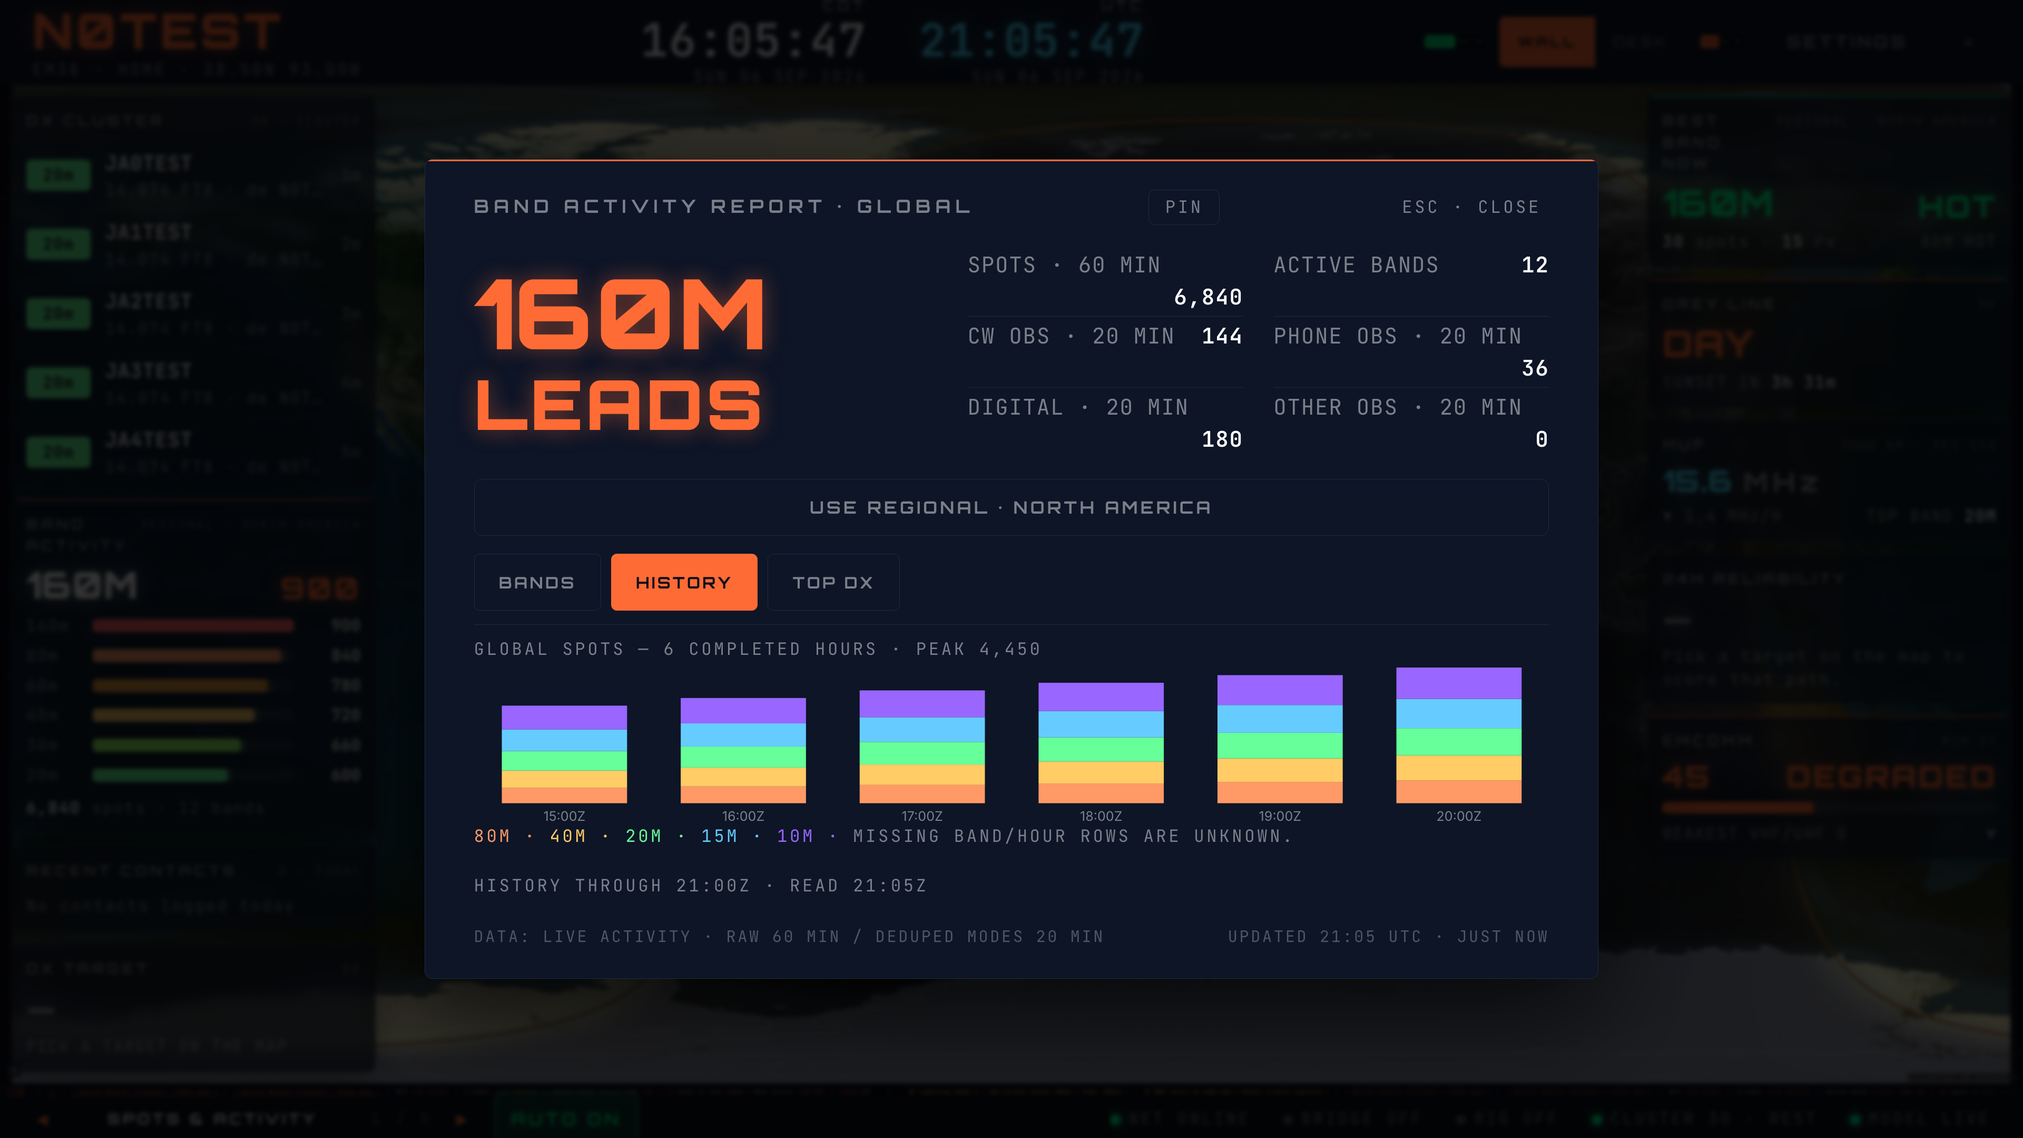
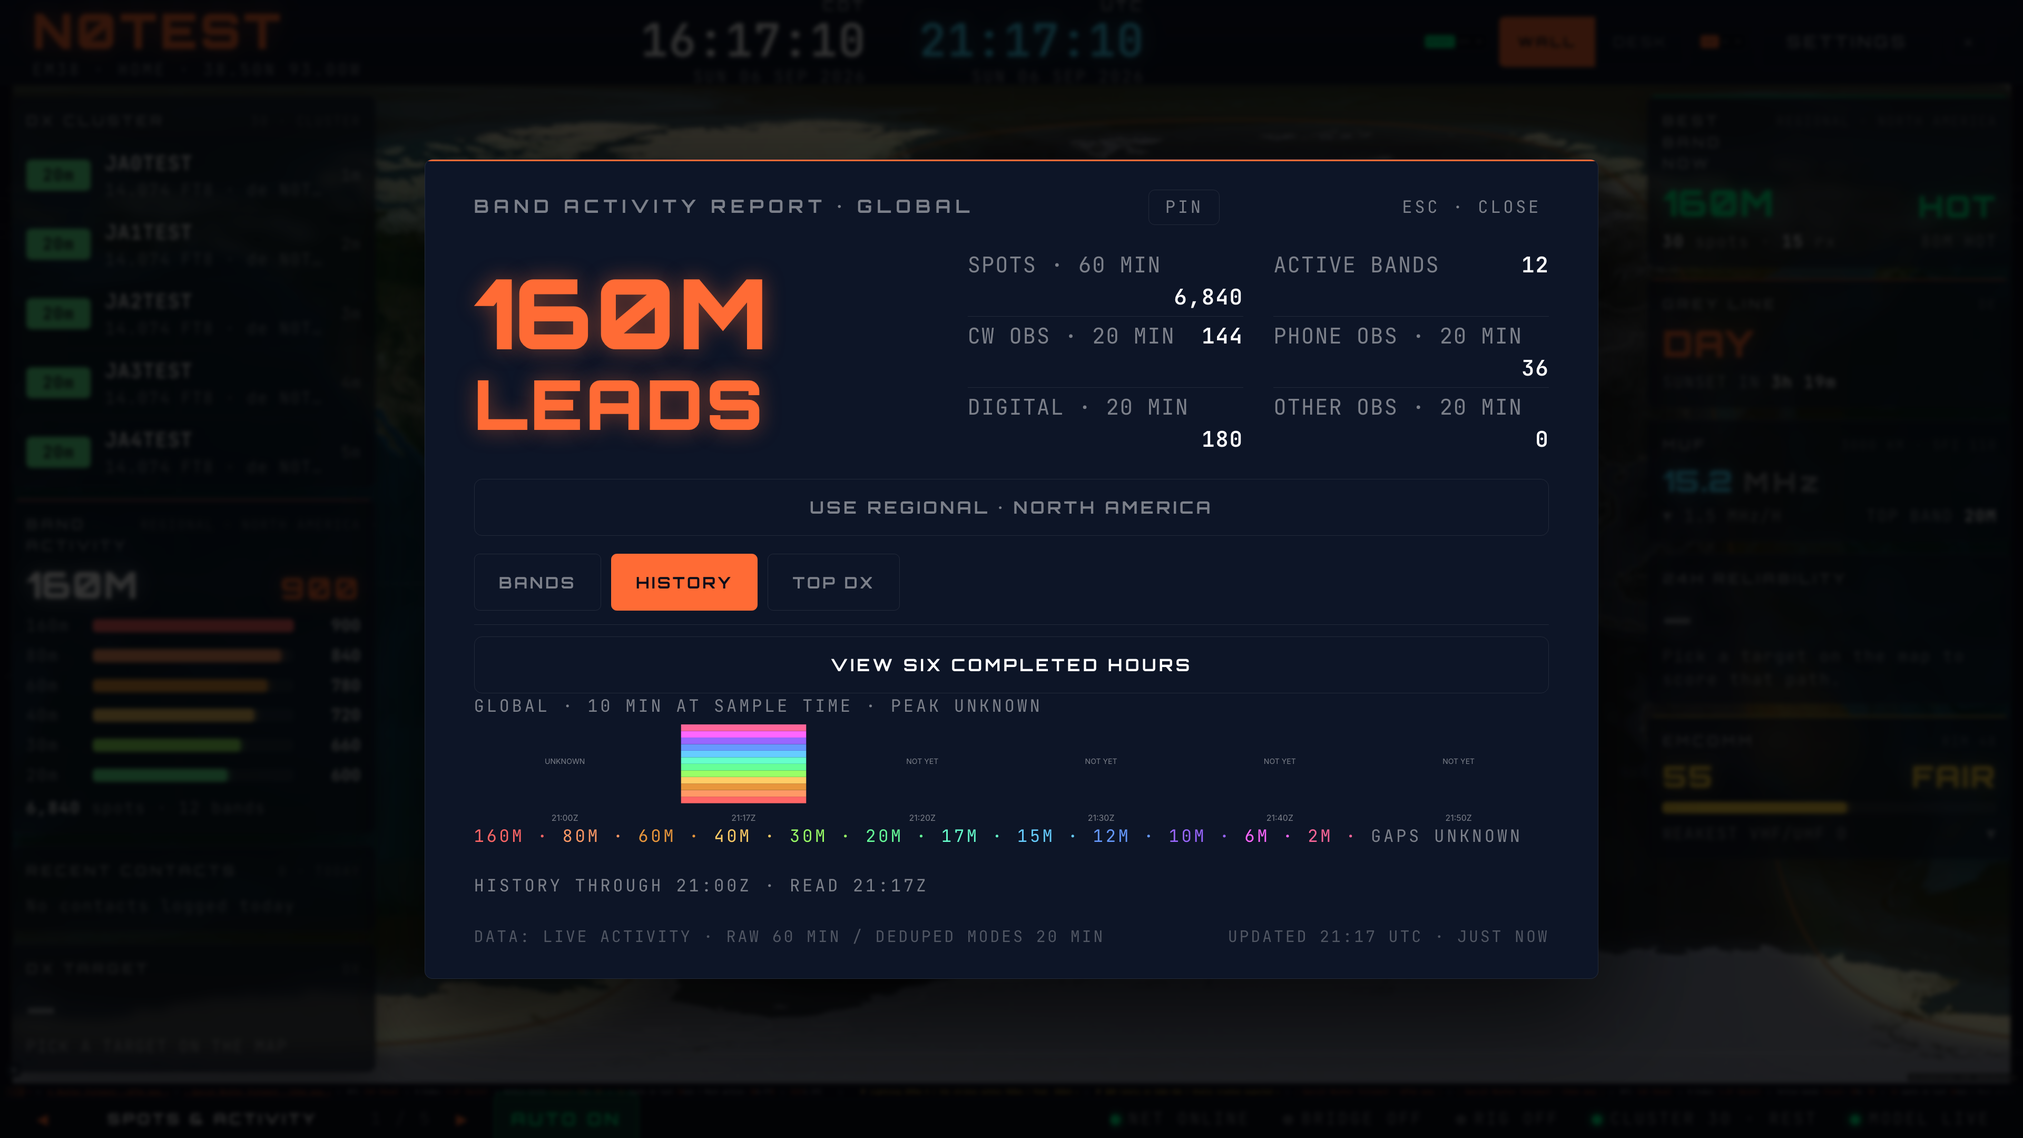
feat(hamclock): retain current-hour activity samples and fix report review findings

Changed region(s): [[0.25, 0.5583, 0.75, 0.7444], [0.875, 0.6514, 0.9375, 0.7134], [0.375, 0.031, 0.4375, 0.062]]

diff --git a/src/components/map/hamclock/wall/reports/BandHistoryChart.tsx b/src/components/map/hamclock/wall/reports/BandHistoryChart.tsx
@@ -1,37 +1,58 @@
-import { useMemo, useRef } from "react";
+import { useMemo, useRef, useState } from "react";
 import {
   bandHistoryHours,
   type BandHistorySnapshot,
 } from "@/lib/hamclock/bandHistory";
 import { getBandColor } from "@/lib/utils/spotColors";
+import { liveBandSlots, type LiveBandSample } from "@/lib/hamclock/liveBandHistory";
+import { HamClockButton } from "../controls";
 import { useElementSize } from "../useElementSize";
 
 /** Separate completed-hour raw counts from the live partial-window counters. */
 export function BandHistoryChart({
   snapshot,
+  live,
 }: {
-  snapshot: BandHistorySnapshot;
+  snapshot?: BandHistorySnapshot;
+  live: { samples: LiveBandSample[]; now: number };
 }) {
+  const [showLive, setShowLive] = useState(false);
   const ref = useRef<HTMLDivElement>(null);
   const measured = useElementSize(ref);
   const width = measured.width || 800;
   const height = measured.height || 220;
-  const hours = useMemo(() => bandHistoryHours(snapshot), [snapshot]);
+  const hours = useMemo(() => showLive
+    ? liveBandSlots(live.samples, live.now).map(({ slot, sample, future }) => ({
+      hour: new Date(sample?.at ?? slot).toISOString(),
+      rows: Object.entries(sample?.counts ?? {}).map(([band, count]) => ({ band, count, sources: {} as Record<string, number> })),
+      count: sample ? Object.values(sample.counts).reduce((a, b) => a + b, 0) : null,
+      future,
+    }))
+    : bandHistoryHours(snapshot ?? {
+      rows: [], scope: "global", fetchedAt: "",
+      windowStart: new Date(Math.floor(live.now / 3_600_000) * 3_600_000 - 6 * 3_600_000).toISOString(),
+      windowEnd: new Date(Math.floor(live.now / 3_600_000) * 3_600_000).toISOString(),
+    }).map((hour) => ({ ...hour, future: false })), [snapshot, showLive, live.samples, live.now]);
   const known = hours.flatMap((hour) => hour.count === null ? [] : [hour.count]);
-  const peak = known.length ? Math.max(...known) : null;
-  const max = Math.max(1, peak ?? 0);
+  // Every supported band must be recorded before an hour's total is known.
+  const complete = hours.every((hour) => hour.rows.length === 12);
+  const peak = complete && known.length ? Math.max(...known) : null;
+  const max = Math.max(1, ...known);
   const plotHeight = Math.max(1, height - 38);
   const step = width / 6;
-  const bands = [...new Set(snapshot.rows.map((row) => row.band))];
+  const bands = [...new Set(hours.flatMap((hour) => hour.rows.map((row) => row.band)))];
   return (
     <div className="hcr-chart">
+      <HamClockButton onClick={() => setShowLive((value) => !value)}>
+        {showLive ? "VIEW SIX COMPLETED HOURS" : "VIEW CURRENT-HOUR SAMPLES"}
+      </HamClockButton>
       <p className="hcr-chart-title">
-        GLOBAL SPOTS — 6 COMPLETED HOURS · PEAK {peak === null ? "UNKNOWN" : peak.toLocaleString()}
+        {showLive ? "GLOBAL · 10 MIN AT SAMPLE TIME" : "GLOBAL · 6 COMPLETED HOURS"} · PEAK {peak === null ? "UNKNOWN" : peak.toLocaleString()}
       </p>
       <div className="hcr-plot" ref={ref}>
         <svg
           role="img"
-          aria-label="Global hourly band counts; missing hours labeled unknown"
+          aria-label={showLive ? "Global current-hour samples; trailing ten-minute counts" : "Global hourly band counts; missing hours labeled unknown"}
           viewBox={`0 0 ${width} ${height}`}
         >
           {hours.map((hour, index) => {
@@ -59,8 +80,11 @@ export function BandHistoryChart({
                     fill="var(--hc-dim)"
                     fontSize={Math.max(12, height * 0.075)}
                   >
-                    UNKNOWN
+                    {hour.future ? "NOT YET" : "UNKNOWN"}
                   </text>
+                )}
+                {hour.count !== null && hour.rows.length < 12 && (
+                  <text x={(index + 0.5) * step} y={14} textAnchor="middle" fill="var(--hc-fg)" fontSize={12}>PARTIAL</text>
                 )}
                 <text
                   x={(index + 0.5) * step}
@@ -82,11 +106,11 @@ export function BandHistoryChart({
             {band.toUpperCase()} ·{" "}
           </span>
         ))}
-        Missing band/hour rows are unknown.
+        {showLive ? "GAPS UNKNOWN" : "MISSING = UNKNOWN"}
       </p>
       <table className="sr-only">
         <caption>
-          Global band history · completed UTC hours · raw reports
+          {showLive ? "Global live samples · actual sample UTC · trailing ten-minute raw reports" : "Global band history · completed UTC hours · raw reports"}
         </caption>
         <thead>
           <tr>
@@ -100,8 +124,8 @@ export function BandHistoryChart({
           {hours.flatMap((hour) =>
             hour.rows.length
               ? hour.rows.map((row) => (
-                  <tr key={`${row.hour}-${row.band}`}>
-                    <td>{row.hour}</td>
+                  <tr key={`${hour.hour}-${row.band}`}>
+                    <td>{hour.hour}</td>
                     <td>{row.band}</td>
                     <td>{row.count}</td>
                     <td>

diff --git a/src/components/map/hamclock/wall/reports/BandActivityReport.tsx b/src/components/map/hamclock/wall/reports/BandActivityReport.tsx
@@ -1,7 +1,9 @@
 import { useMemo, useState } from "react";
 import { useBandActivity, scopeQueryString } from "@/hooks/useBandActivity";
 import { useBandVerdicts } from "@/hooks/useBandVerdicts";
+import { useLiveBandHistory } from "@/hooks/useLiveBandHistory";
 import { useBandHistory } from "@/hooks/useBandHistory";
+import { useHamClockStore } from "@/stores/hamclockStore";
 import { useMapStore } from "@/stores/mapStore";
 import { WallReport, type WallReportFact } from "./WallReport";
 import { reportFooter } from "../tokens";
@@ -22,6 +24,7 @@ export function BandActivityReport({ open, onClose, initialGlobalCounts = false 
   const scope = globalCounts ? { label: "Global" } : activeScope;
   const activityScope = globalCounts ? { type: "global" as const } : activeActivityScope;
   const { data, isPending, isError } = useBandActivity(activityScope, open);
+  const live = useLiveBandHistory(open && activityScope.type === "global" ? data : undefined);
   const history = useBandHistory(open && activityScope.type === "global");
   const bars = useMemo(
     () =>
@@ -31,10 +34,10 @@ export function BandActivityReport({ open, onClose, initialGlobalCounts = false 
     [data],
   );
   const sources = useMemo(() => {
-    const result: Record<string, number> = {
-      pskreporter: 0,
-      rbn: 0,
-      dxcluster: 0,
+    const result: Record<string, number | undefined> = {
+      pskreporter: undefined,
+      rbn: undefined,
+      dxcluster: undefined,
     };
     for (const entry of data?.values() ?? []) {
       for (const [source, count] of Object.entries(entry.sourceCounts60m ?? {}))
@@ -43,7 +46,7 @@ export function BandActivityReport({ open, onClose, initialGlobalCounts = false 
     return Object.entries(result)
       .map(
         ([source, count]) =>
-          `${source.toUpperCase()} ${data ? count.toLocaleString() : "WAITING"}`,
+          `${source.toUpperCase()} ${count === undefined ? "WAITING" : count.toLocaleString()}`,
       )
       .join(" · ");
   }, [data]);
@@ -103,6 +106,7 @@ export function BandActivityReport({ open, onClose, initialGlobalCounts = false 
                     <HamClockButton
                       key={entry.band}
                       onClick={() => {
+                        useHamClockStore.getState().setBandFocus([entry.band]);
                         const map = useMapStore.getState();
                         map.setSpotFilters({
                           ...map.spotFilters,
@@ -144,26 +148,13 @@ export function BandActivityReport({ open, onClose, initialGlobalCounts = false 
                     hourly totals are not substituted for regional or path
                     observations.
                   </p>
-                ) : history.data ? (
+                ) : (
                   <>
-                    {history.isError && (
-                      <p className="hcr-note">
-                        History refresh failed; showing the last successful
-                        read.
-                      </p>
-                    )}
-                    <BandHistoryChart snapshot={history.data} />
+                    <BandHistoryChart snapshot={history.data} live={live} />
                     <p className="hcr-chart-title">
-                      HISTORY THROUGH {history.data.windowEnd.slice(11, 16)}Z ·
-                      READ {history.data.fetchedAt.slice(11, 16)}Z
+                      {history.isError ? (history.data ? `HISTORY STALE · READ ${history.data.fetchedAt.slice(11, 16)}Z` : "HOURLY HISTORY UNAVAILABLE · LIVE SAMPLES AVAILABLE") : history.data ? `HISTORY THROUGH ${history.data.windowEnd.slice(11, 16)}Z · READ ${history.data.fetchedAt.slice(11, 16)}Z` : "READING COMPLETED HOURS · LIVE SAMPLES AVAILABLE"}
                     </p>
                   </>
-                ) : (
-                  <p className="hcr-note">
-                    {history.isError
-                      ? "BAND HISTORY UNAVAILABLE"
-                      : "READING SIX-HOUR HISTORY"}
-                  </p>
                 )}
               </>
             ),

diff --git a/src/lib/hamclock/liveBandHistory.ts b/src/lib/hamclock/liveBandHistory.ts
@@ -1,0 +1,43 @@
+import type { BandActivitySnapshot } from "@/hooks/useBandActivity";
+
+export interface LiveBandSample {
+  at: number;
+  counts: Record<string, number>;
+}
+const HOUR = 3_600_000;
+const STEP = 600_000;
+
+/** One latest observed trailing-ten-minute snapshot per UTC ten-minute slot.
+ * These overlap and must never be summed into an hourly count. */
+export function recordLiveBandSample(
+  previous: LiveBandSample[],
+  data: BandActivitySnapshot | undefined,
+  now: number,
+): LiveBandSample[] {
+  const start = Math.floor(now / HOUR) * HOUR;
+  const retained = previous.filter((sample) => sample.at >= start && sample.at <= now);
+  const current = retained.length === previous.length ? previous : retained;
+  const at = data?.fetchedAt;
+  if (!data || at == null || at < start || at > now || !Number.isFinite(at)) return current;
+  const counts: Record<string, number> = {};
+  for (const row of data.values()) {
+    if (!/^(160|80|60|40|30|20|17|15|12|10|6|2)m$/.test(row.band) ||
+      !Number.isSafeInteger(row.count10mRecent) || row.count10mRecent < 0) return current;
+    counts[row.band] = row.count10mRecent;
+  }
+  // An empty response does not establish a measured zero on every band.
+  if (!Object.keys(counts).length) return current;
+  const slot = Math.floor(at / STEP);
+  if (current.some((sample) => Math.floor(sample.at / STEP) === slot && sample.at >= at)) return current;
+  return [...current.filter((sample) => Math.floor(sample.at / STEP) !== slot), { at, counts }]
+    .sort((a, b) => a.at - b.at);
+}
+
+export function liveBandSlots(samples: LiveBandSample[], now: number) {
+  const start = Math.floor(now / HOUR) * HOUR;
+  return Array.from({ length: 6 }, (_, i) => {
+    const slot = start + i * STEP;
+    const sample = samples.find((entry) => entry.at >= slot && entry.at < slot + STEP && entry.at <= now);
+    return { slot, sample, future: slot > now };
+  });
+}

diff --git a/src/lib/hamclock/liveBandHistory.test.ts b/src/lib/hamclock/liveBandHistory.test.ts
@@ -1,0 +1,26 @@
+import { expect, it } from "vitest";
+import type { BandActivitySnapshot, BandActivityStatus } from "@/hooks/useBandActivity";
+import { liveBandSlots, recordLiveBandSample } from "./liveBandHistory";
+const now = Date.parse("2026-09-06T20:35:00Z");
+const data = (at: number, count = 8) => Object.assign(new Map([["20m", { band: "20m", count10mRecent: count } as BandActivityStatus]]), { fetchedAt: at }) as BandActivitySnapshot;
+it("retains one latest observation per slot without summing overlapping windows", () => {
+  let samples = recordLiveBandSample([], data(now - 60_000), now);
+  samples = recordLiveBandSample(samples, data(now, 12), now);
+  samples = recordLiveBandSample(samples, data(now - 120_000, 99), now);
+  expect(samples).toEqual([{ at: now, counts: { "20m": 12 } }]);
+  expect(liveBandSlots(samples, now).map((slot) => slot.sample?.counts["20m"])).toEqual([undefined, undefined, undefined, 12, undefined, undefined]);
+});
+it("does not backfill missing slots and distinguishes measured zero from unknown and future", () => {
+  const slots = liveBandSlots(recordLiveBandSample([], data(now, 0), now), now);
+  expect(slots[0].sample).toBeUndefined();
+  expect(slots[0].future).toBe(false);
+  expect(slots[3].sample?.counts["20m"]).toBe(0);
+  expect(slots[5].future).toBe(true);
+});
+it("drops old hours and rejects future, invalid and empty snapshots", () => {
+  const previous = recordLiveBandSample([], data(now), now);
+  expect(recordLiveBandSample(previous, data(now), now + 3_600_000)).toEqual([]);
+  expect(recordLiveBandSample([], data(now + 1), now)).toEqual([]);
+  expect(recordLiveBandSample([], data(now, -1), now)).toEqual([]);
+  expect(recordLiveBandSample([], Object.assign(new Map(), { fetchedAt: now }), now)).toEqual([]);
+});

diff --git a/src/components/map/hamclock/wall/reports/reports.test.tsx b/src/components/map/hamclock/wall/reports/reports.test.tsx
@@ -369,3 +369,17 @@ describe("DxTargetReport", () => {
     expect(screen.getByText("55%")).toBeTruthy();
   });
 });
+
+
+describe("Band history completeness", () => {
+  it("keeps partial hourly totals out of the numeric peak", async () => {
+    const { BandHistoryChart } = await import("./BandHistoryChart");
+    render(<BandHistoryChart snapshot={{ scope: "global", windowStart: "2026-09-06T14:00:00Z", windowEnd: "2026-09-06T20:00:00Z", fetchedAt: "2026-09-06T20:10:00Z", rows: [{ hour: "2026-09-06T19:00:00.000Z", band: "20m", count: 123, sources: {}, modes: {} }] }} live={{ samples: [], now: Date.parse("2026-09-06T20:10:00Z") }} />);
+    expect(screen.getByText(/PEAK UNKNOWN/)).toBeTruthy();
+    expect(screen.getByText("PARTIAL")).toBeTruthy();
+  });
+  it("does not turn absent contributing source keys into measured zero", () => {
+    render(<BandActivityReport open onClose={vi.fn()} />);
+    expect(screen.getByText(/PSKREPORTER WAITING · RBN WAITING · DXCLUSTER WAITING/)).toBeTruthy();
+  });
+});

diff --git a/src/hooks/useLiveBandHistory.ts b/src/hooks/useLiveBandHistory.ts
@@ -1,0 +1,20 @@
+import { useEffect } from "react";
+import { create } from "zustand";
+import type { BandActivitySnapshot } from "./useBandActivity";
+import { useUTCClock } from "./useUTCClock";
+import { recordLiveBandSample, type LiveBandSample } from "@/lib/hamclock/liveBandHistory";
+
+// Session-only global observations survive report close/reopen and pin handoff.
+// Never accept regional/path snapshots into this store.
+const useSamples = create<{ samples: LiveBandSample[] }>(() => ({ samples: [] }));
+export function useLiveBandHistory(globalData: BandActivitySnapshot | undefined) {
+  const now = useUTCClock(30_000).getTime();
+  const samples = useSamples((state) => state.samples);
+  useEffect(() => {
+    useSamples.setState((state) => {
+      const samples = recordLiveBandSample(state.samples, globalData, now);
+      return samples === state.samples ? state : { samples };
+    });
+  }, [globalData, now]);
+  return { samples, now };
+}

diff --git a/docs/designs/hamclock-band-activity-evidence.md b/docs/designs/hamclock-band-activity-evidence.md
@@ -4,20 +4,20 @@ Implementation branch: `feat/hamclock-b24-activity-report`, based on the history
 
 The report exposes BANDS, HISTORY, and TOP DX using the existing report shell and pin. BANDS sets map band filters. TOP DX centers a selected location, ranks the loaded cluster sample by distance from the active home, applies map filters, and excludes stale/future or approximate/unlocated spots. It does not claim a global ranking. The accessible table retains every ranked row while the visible list measures how many complete rows fit.
 
-The scope switch changes all live counts together. Regional/path counts never share a chart labeled as scoped history when only global aggregates exist. HISTORY uses six **completed** global UTC hours; absent records remain unknown, including an unknown peak for an empty response. The current trailing ten-minute count is separately labeled on BANDS. Sixty-minute raw spot counts and twenty-minute deduplicated mode observations retain distinct labels.
+The scope switch changes all live counts together. Regional/path counts never share a chart labeled as scoped history when only global aggregates exist. HISTORY uses six **completed** global UTC hours; absent records remain unknown, including an unknown peak for empty or incomplete hourly coverage. The current trailing ten-minute count is separately labeled on BANDS. HISTORY switches to session-only current-hour samples: the latest server snapshot per ten-minute UTC slot, retained across report close/reopen. These trailing windows overlap; they are never summed into hourly totals or backfilled. Actual sample times are shown, future slots read NOT YET, and absent samples remain UNKNOWN. Live samples remain accessible if the completed-hour endpoint fails. Sixty-minute raw spot counts and twenty-minute deduplicated mode observations retain distinct labels.
 
 ## Local verification
 
-- Managed owner: `hamclock-b24-activity-report`; session `1ae1c3c7-4cc2-4640-9a2d-153f26ddf675`.
+- Managed owner: `hamclock-b24-activity-report`; session `54030af2-4f7b-48ad-a6e9-0e27945f723c`.
 - Checkout: `/Users/crypticpy/Projects/propulse/.worktrees/hamclock-b24-activity-report`; local profile, `http://127.0.0.1:5182/map`.
 - Disposable Chromium context; synthetic N0TEST / EM38, Flat projection, default text size, DPR 1. Fixture feeds: band activity, band history, DX cluster. Other background feeds may use normal dev routes.
 - Automated browser checks: 1920×1080 and 3840×2160, Pulse/Classic/Brass, all three tabs; band filtering, DX targeting, Escape and focus return. No account, sync, or hardware connection was created.
-- Regression tests cover report states, location/distance ranking, history validation and missing-data semantics. Full Vitest suite: 367 files / 3,222 tests pass. Lint and production build pass. All 18 tab/theme/resolution measurements report no overflow; no browser page errors.
+- Regression tests cover report states, location/distance ranking, history validation and missing-data semantics. Full Vitest suite: 367 files / 3,222 tests pass. Lint and production build pass. Follow-up: all 48 combinations of views (including both chart modes), themes, resolutions, and hourly-endpoint success/failure report no overflow or page errors. The canonical HamClock band focus is verified alongside map filters. Three new rolling-series tests and two missing-source/partial-peak regression tests pass.
 
 ## Remaining acceptance work
 
-HW-70 is partial until deployed/physical-display checks and the current-hour rolling observation series are completed. The existing endpoint cannot supply historical regional/path aggregates. Those are explicitly unavailable; switching to global is an operator action. This slice does not change the model, collector, durable schema, or 3D rendering.
+HW-70 is partial until deployed/physical-display checks are completed. The existing endpoint cannot supply historical regional/path aggregates. Those are explicitly unavailable; switching to global is an operator action. This slice does not change the model, collector, durable schema, or 3D rendering.
 
 A third HISTORY tab is a deliberate layout adjustment: twelve band actions plus a six-hour chart clipped the 1080p report. Separate tabs preserve readable controls and the no-scroll rule.
 
-Screenshots: [1080p history](../images/hamclock-b24/band-history-1080p.png), [4K history](../images/hamclock-b24/band-history-4k.png).
+Screenshots show current-hour observations: [1080p history](../images/hamclock-b24/band-history-1080p.png), [4K history](../images/hamclock-b24/band-history-4k.png).
